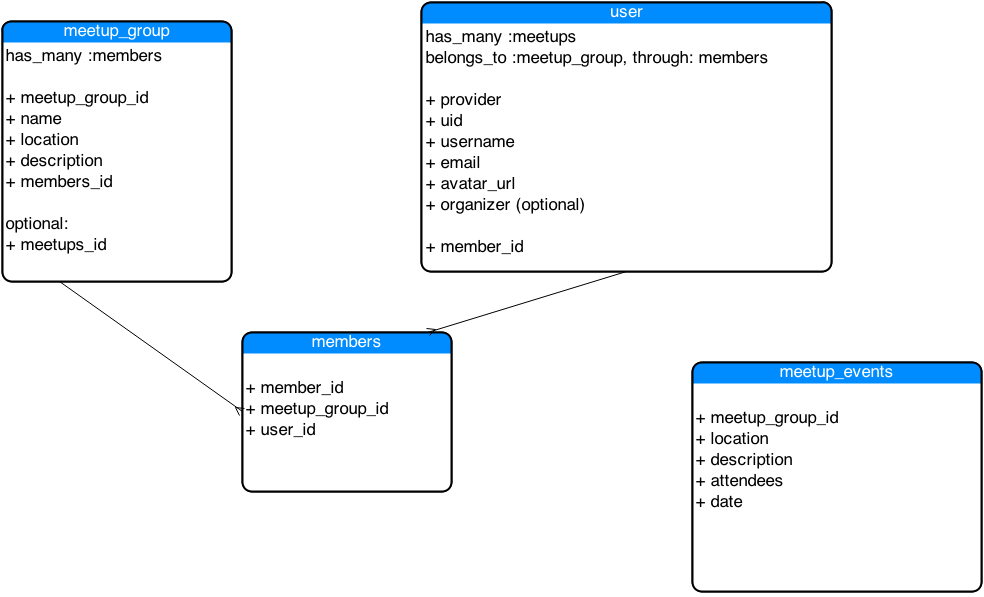
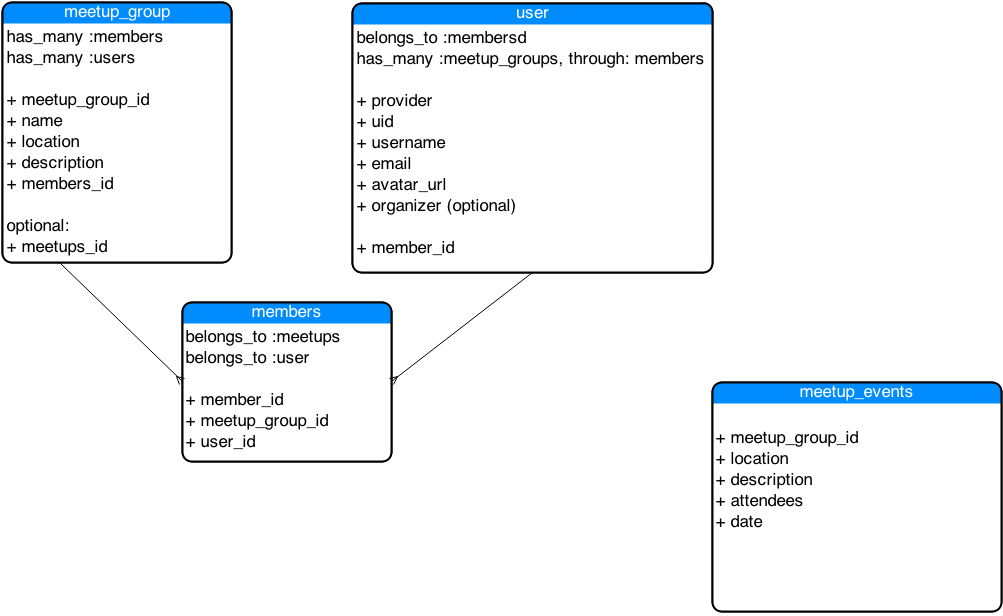
New er diagram with updated associations between tables
- members table belongs_to users and meetups

diff --git a/public/stylesheets/app.css b/public/stylesheets/app.css
@@ -38,3 +38,7 @@ a:visited {
   padding: 1em;
   background-color: #3B9089;
 }
+
+input {
+  color: black;
+}

diff --git a/db/schema.rb b/db/schema.rb
@@ -11,7 +11,7 @@
 #
 # It's strongly recommended that you check this file into your version control system.
 
-ActiveRecord::Schema.define(version: 20140611003919) do
+ActiveRecord::Schema.define(version: 20140611153925) do
 
   # These are extensions that must be enabled in order to support this database
   enable_extension "plpgsql"
@@ -23,6 +23,11 @@ ActiveRecord::Schema.define(version: 20140611003919) do
     t.integer  "members_id"
     t.datetime "created_at"
     t.datetime "updated_at"
+  end
+
+  create_table "members", force: true do |t|
+    t.integer "user_id",   null: false
+    t.integer "meetup_id", null: false
   end
 
   create_table "users", force: true do |t|

diff --git a/app.rb b/app.rb
@@ -42,6 +42,15 @@ get '/:id' do
   erb :show
 end
 
+get '/meetup/new' do
+  erb :create
+end
+
+post '/meetup/new' do
+  @create_meetup = Meetup.create(name: params[:meetup_name], location: params[:location], description: params[:description])
+  redirect "/#{@create_meetup.id}"
+end
+
 
 get '/auth/github/callback' do
   auth = env['omniauth.auth']

diff --git a/db/migrate/20140611153925_create_members.rb b/db/migrate/20140611153925_create_members.rb
@@ -1,0 +1,8 @@
+class CreateMembers < ActiveRecord::Migration
+  def change
+    create_table :members do |t|
+      t.integer :user_id, null: false
+      t.integer :meetup_id, null: false
+    end
+  end
+end

diff --git a/app/models/members.rb b/app/models/members.rb
@@ -1,0 +1,4 @@
+class Member
+  belongs_to :meetups
+  belongs_to :user
+end
